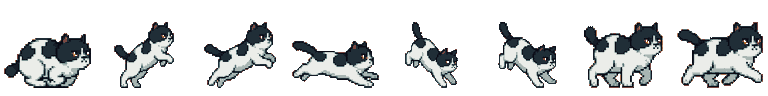
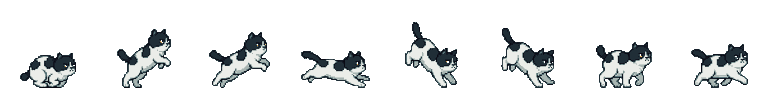
feat(rows): jump + specials accepted, swipe needs re-roll; per-row scaling in cutter

Changed region(s): [[0.0, 0.2188, 0.5, 0.9375], [0.625, 0.2188, 1.0, 0.9375], [0.625, 0.2188, 0.6875, 0.3125]]

diff --git a/tools/auto_cut.py b/tools/auto_cut.py
@@ -158,13 +158,20 @@ def main():
     sheet = Image.new("RGBA", (cols * CELL, len(rows) * CELL), (0, 0, 0, 0))
 
     for ry, row in enumerate(rows):
-        for cx, box in enumerate(row["boxes"]):
+        # one scale per row: scaling each frame to its own box makes a crouch smaller
+        # than a stretch and a sitting cat smaller than a standing one.
+        bodies = []
+        for box in row["boxes"]:
             body = im.crop(box)
             bbox = body.getbbox()
-            if not bbox:
+            bodies.append(body.crop(bbox) if bbox else None)
+        sized = [b for b in bodies if b]
+        row_k = min([min(MAX_W / b.width, MAX_H / b.height, 1.0) for b in sized] or [1.0])
+
+        for cx, body in enumerate(bodies):
+            if body is None:
                 continue
-            body = body.crop(bbox)
-            k = min(MAX_W / body.width, MAX_H / body.height, 1.0)
+            k = row_k
             body = body.resize((max(1, int(body.width * k)), max(1, int(body.height * k))), Image.LANCZOS)
             cell = Image.new("RGBA", (CELL, CELL), (0, 0, 0, 0))
             cell.paste(body, ((CELL - body.width) // 2, CELL - FOOT - body.height), body)

diff --git a/CHECKLIST.md b/CHECKLIST.md
@@ -26,9 +26,9 @@ Status as of 2026-11-10. ✅ done · 🟡 partial · ⬜ not started · ❓ deci
 | 🟡 | Tuxedo sheet (first attempt) | exists but 6-frame rows, motion blur, drawn rules, weak swipe |
 | ✅ | Tuxedo **walk** — 8 frames, upright | `out/walk-v1-atlas.png` (accepted) |
 | ✅ | Tuxedo **run** — 8 frames, fast trot | `out/run-v3-atlas.png` (v3 accepted) |
-| ⬜ | Tuxedo **jump** — 4 frames | regenerate (drop the arc line) |
-| ⬜ | Tuxedo **swipe** — 4 frames | regenerate (no slash streaks, no tongue) |
-| ⬜ | Tuxedo **specials** — 4 frames | regenerate (order: curl, play, stretch, yawn) |
+| ✅ | Tuxedo **jump** — 4 frames | `out/jump-v1-atlas.png` (accepted) |
+| 🟡 | Tuxedo **swipe** — 4 frames | `out/swipe-v1-atlas.png` — paw reads as a bar, re-roll |
+| ✅ | Tuxedo **specials** — 4 frames | `out/specials-v1-atlas.png` (accepted) |
 | ⬜ | Grey twin — 28 frames | after tuxedo is approved |
 | ⬜ | `cat-atlas.png` + `cat-atlas.json` | export from approved rows |
 
